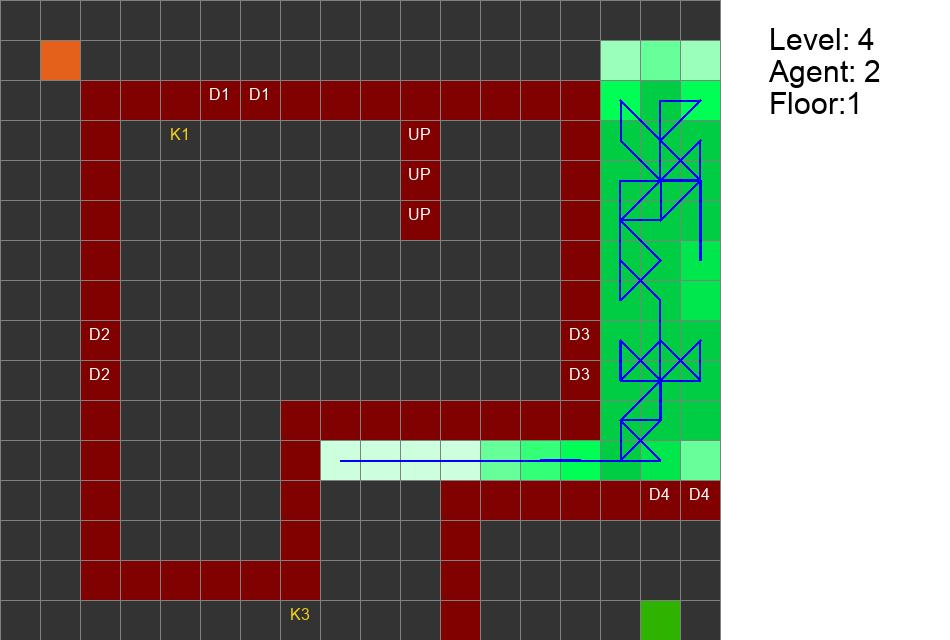
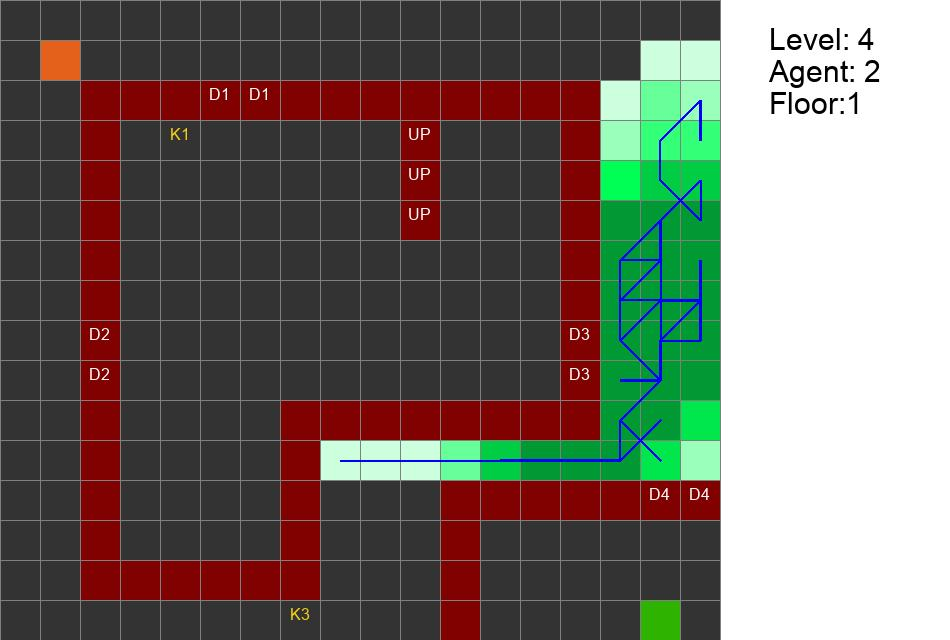
fix export image

Changed region(s): [[0.4579, 0.0625, 0.7632, 0.75]]

diff --git a/game.py b/game.py
@@ -115,10 +115,11 @@ class Game:
             self.search.run()
             peak2, current_2 =tracemalloc.get_traced_memory()
             tracemalloc.stop()
+            if self.search.is_completed and self.search.fail_to_solve == False:
+                self.matrix.export_images(self.search.solution)
             self.total_memory+= (current_2 - current_1)
             self.end = time.time()
             self.total_time += round((self.end - self.start) * 1000, 3)
-            print(f'Total time: {self.total_time} milliseconds')
         else:
             if self.search.fail_to_solve:
                 self.matrix.draw(self.search.current_floor)
@@ -133,7 +134,6 @@ class Game:
                 self.matrix.draw_solution(
                     self.search.solution
                 )
-                self.matrix.export_images(self.search.solution)
                 self.show_score()
                 self.show_time()
         return
